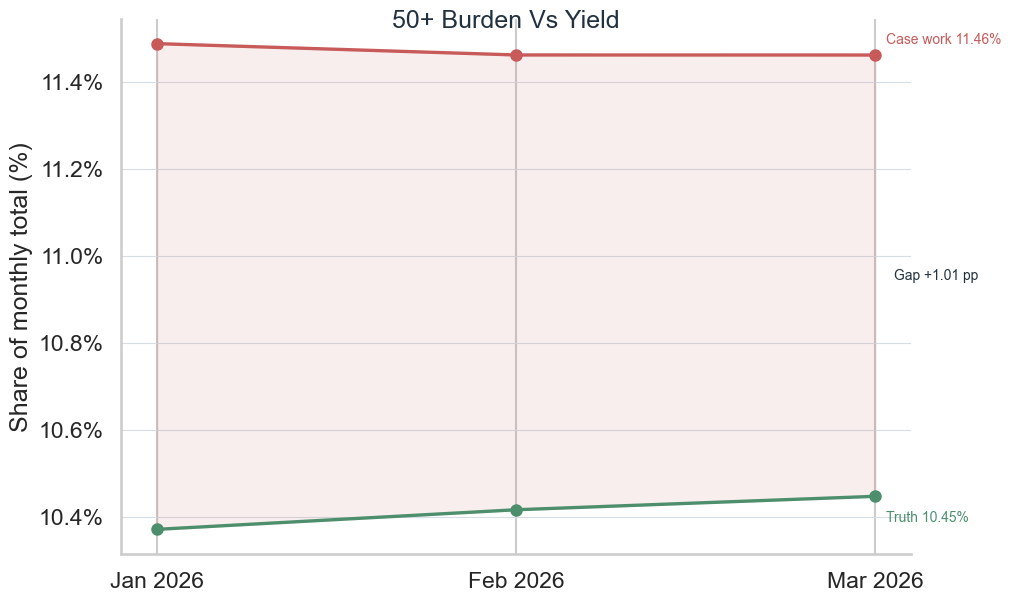
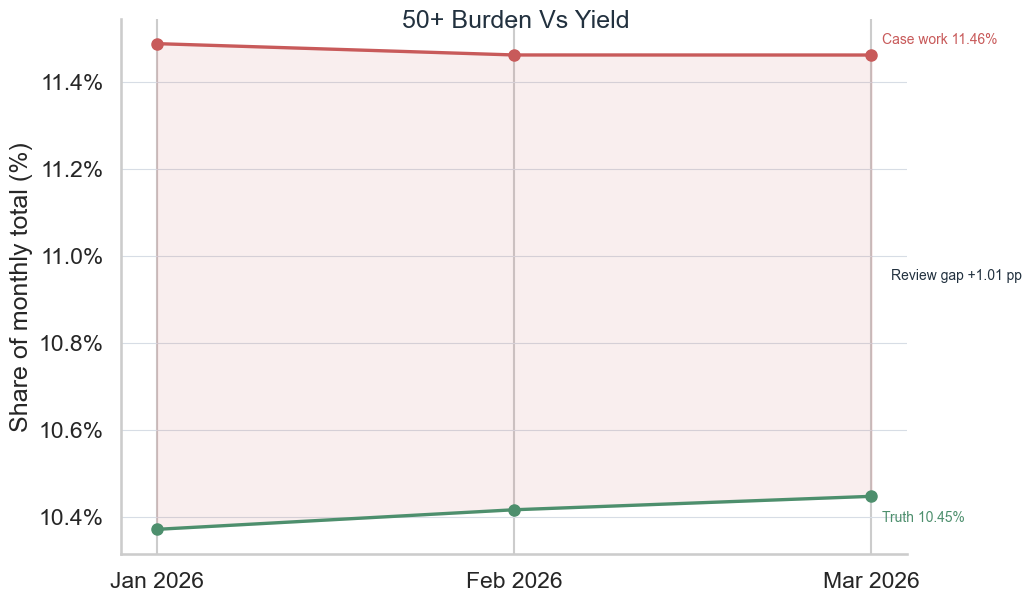
Update execution report and figures to enhance clarity on targeted review versus broad escalation; refine regeneration time and improve figure descriptions.

diff --git a/artefacts/analytics_slices/data_analyst/inhealth_group/04_process_and_efficiency_improvement_support/models/build_process_and_efficiency_improvement_support.py b/artefacts/analytics_slices/data_analyst/inhealth_group/04_process_and_efficiency_improvement_support/models/build_process_and_efficiency_improvement_support.py
@@ -124,7 +124,7 @@ def render_figures(review_df: pd.DataFrame) -> None:
     plot_df = review_df.copy()
     plot_df["month_label"] = plot_df["month_start_date"].dt.strftime("%b %Y")
 
-    fig, ax = plt.subplots(figsize=(10.0, 5.8), constrained_layout=True)
+    fig, ax = plt.subplots(figsize=(10.2, 5.8), constrained_layout=True)
     ax.plot(
         plot_df["month_label"],
         plot_df["case_open_share"] * 100,
@@ -174,7 +174,7 @@ def render_figures(review_df: pd.DataFrame) -> None:
         color=green,
     )
     ax.annotate(
-        f"Gap {last['burden_minus_yield_share'] * 100:+.2f} pp",
+        f"Review gap {last['burden_minus_yield_share'] * 100:+.2f} pp",
         xy=(last["month_label"], ((last["case_open_share"] + last["truth_share"]) / 2) * 100),
         xytext=(14, 0),
         textcoords="offset points",
@@ -188,64 +188,55 @@ def render_figures(review_df: pd.DataFrame) -> None:
     plt.close(fig)
 
     latest = plot_df.iloc[-1]
-    fig, (ax_left, ax_right) = plt.subplots(1, 2, figsize=(12.4, 5.8), constrained_layout=True)
+    fig, ax = plt.subplots(figsize=(10.6, 6.2), constrained_layout=True)
 
-    left_labels = ["Case-open rate", "Truth quality"]
-    left_values = [
-        latest["case_open_change_from_start"] * 100,
-        latest["truth_change_from_start"] * 100,
+    comparison_labels = [
+        "Whole-lane truth change",
+        "Whole-lane case-open change",
+        "50+ burden gap",
+        "50+ case-open gap",
+        "50+ truth gap",
     ]
-    left_colors = [blue, green]
-    ax_left.barh(left_labels, left_values, color=left_colors, height=0.52)
-    left_min = min(left_values)
-    left_max = max(left_values)
-    ax_left.set_xlim(left_min - 0.03, left_max + 0.03)
-    for i, value in enumerate(left_values):
-        ax_left.annotate(
-            f"{value:+.2f} pp",
-            xy=(value, i),
-            xytext=(6 if value >= 0 else -6, 0),
-            textcoords="offset points",
-            va="center",
-            ha="left" if value >= 0 else "right",
-            fontsize=10,
-            color=text,
-        )
-    ax_left.axvline(0, color="#9aa5b1", linewidth=1.0)
-    ax_left.set_title("Whole-lane Jan→Mar change", loc="left", fontsize=14, color=text, pad=8)
-    ax_left.set_xlabel("Percentage points")
-    ax_left.grid(axis="x", color=grid, linewidth=0.8)
-    ax_left.spines[["top", "right"]].set_visible(False)
-
-    right_labels = ["50+ burden gap", "50+ case-open gap", "50+ truth gap"]
-    right_values = [
+    comparison_values = [
+        latest["truth_change_from_start"] * 100,
+        latest["case_open_change_from_start"] * 100,
         latest["burden_minus_yield_share"] * 100,
         latest["case_open_gap_to_peer"] * 100,
         latest["case_truth_gap_to_peer"] * 100,
     ]
-    right_colors = [red, red, blue]
-    ax_right.barh(right_labels, right_values, color=right_colors, height=0.52)
-    right_min = min(right_values)
-    right_max = max(right_values)
-    ax_right.set_xlim(right_min - 0.2, right_max + 0.2)
-    for i, value in enumerate(right_values):
-        ax_right.annotate(
+    comparison_colors = [green, blue, red, red, blue]
+
+    ax.barh(comparison_labels, comparison_values, color=comparison_colors, height=0.58)
+    min_v = min(comparison_values)
+    max_v = max(comparison_values)
+    ax.set_xlim(min_v - 0.35, max_v + 0.35)
+    for i, value in enumerate(comparison_values):
+        ax.annotate(
             f"{value:+.2f} pp",
             xy=(value, i),
-            xytext=(6 if value >= 0 else -6, 0),
+            xytext=(8 if value >= 0 else -8, 0),
             textcoords="offset points",
             va="center",
             ha="left" if value >= 0 else "right",
             fontsize=10,
             color=text,
         )
-    ax_right.axvline(0, color="#9aa5b1", linewidth=1.0)
-    ax_right.set_title("Mar 2026 focus-band gaps", loc="left", fontsize=14, color=text, pad=8)
-    ax_right.set_xlabel("Percentage points")
-    ax_right.grid(axis="x", color=grid, linewidth=0.8)
-    ax_right.spines[["top", "right"]].set_visible(False)
+    ax.axvline(0, color="#9aa5b1", linewidth=1.0)
+    ax.set_title("Why Targeted Review Beats Broad Escalation", loc="left", fontsize=16, color=text, pad=10)
+    ax.set_xlabel("Percentage points")
+    ax.grid(axis="x", color=grid, linewidth=0.8)
+    ax.spines[["top", "right"]].set_visible(False)
+    ax.text(
+        0.02,
+        0.04,
+        "Small whole-lane movement sits near zero; materially larger 50+ gaps support targeted review first.",
+        transform=ax.transAxes,
+        ha="left",
+        va="bottom",
+        fontsize=10,
+        color=text,
+    )
 
-    fig.suptitle("Why Targeted Review Beats Broad Escalation", fontsize=18, color=text, y=1.01)
     fig.savefig(FIGURES_DIR / "targeted_review_vs_broad_escalation.png", bbox_inches="tight")
     plt.close(fig)
 

diff --git a/docs/experience_lake/outward-facing-assets/analytics-role-lenses/data_analyst/inhealth_group/04_process_and_efficiency_improvement_support/execution_report.md b/docs/experience_lake/outward-facing-assets/analytics-role-lenses/data_analyst/inhealth_group/04_process_and_efficiency_improvement_support/execution_report.md
@@ -225,8 +225,9 @@ The second figure was designed to answer:
 - or do the focus-band gaps make targeted review the more defensible response?
 
 Delivered components:
-- whole-lane Jan→Mar change in case-open rate and truth quality
-- current-month `50_plus` case-open gap, truth-quality gap, and burden gap
+- one single comparison axis carrying:
+  - whole-lane Jan→Mar change in case-open rate and truth quality
+  - current-month `50_plus` case-open gap, truth-quality gap, and burden gap
 
 The strongest reading from this figure is:
 - whole-lane movement is small
@@ -250,8 +251,8 @@ This figure carries the concentrated burden story:
 ![Why targeted review beats broad escalation](../../../../../../../artefacts/analytics_slices/data_analyst/inhealth_group/04_process_and_efficiency_improvement_support/figures/targeted_review_vs_broad_escalation.png)
 
 This figure carries the recommendation-support story:
-- the left panel shows that whole-lane Jan→Mar movement is small
-- the right panel shows that the current `50_plus` gaps are materially larger
+- small whole-lane movement sits near zero on the same scale
+- the current `50_plus` gaps are materially larger on that same scale
 - the figure therefore justifies a targeted review recommendation rather than broad lane-wide intervention
 
 ## 8. Improvement-Support Assets Produced
